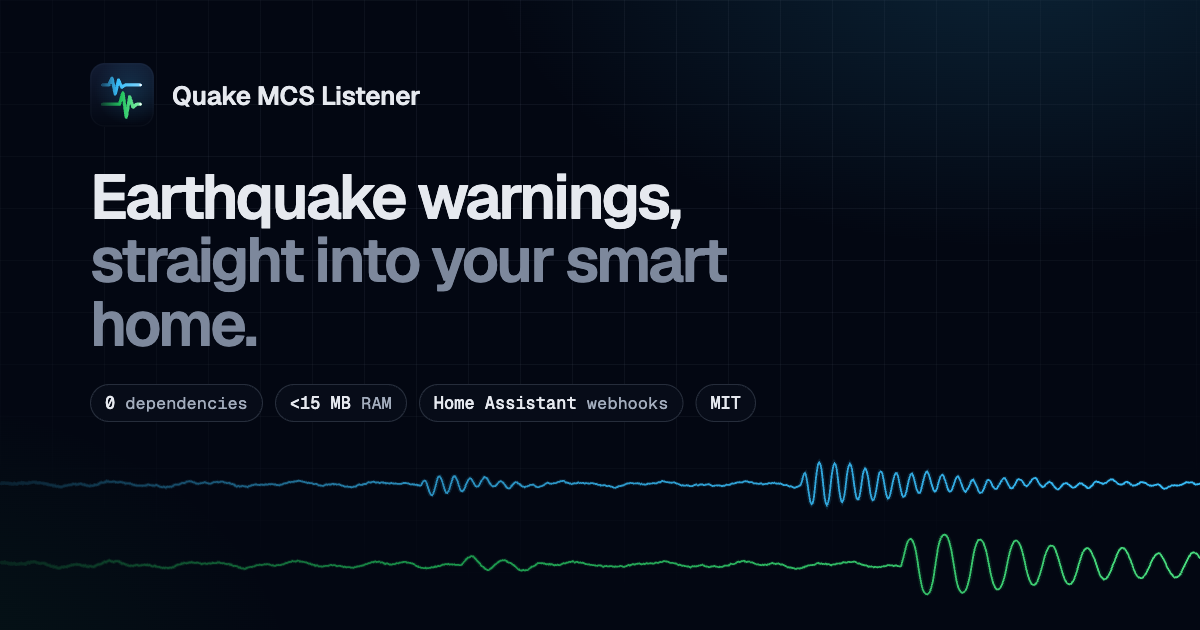
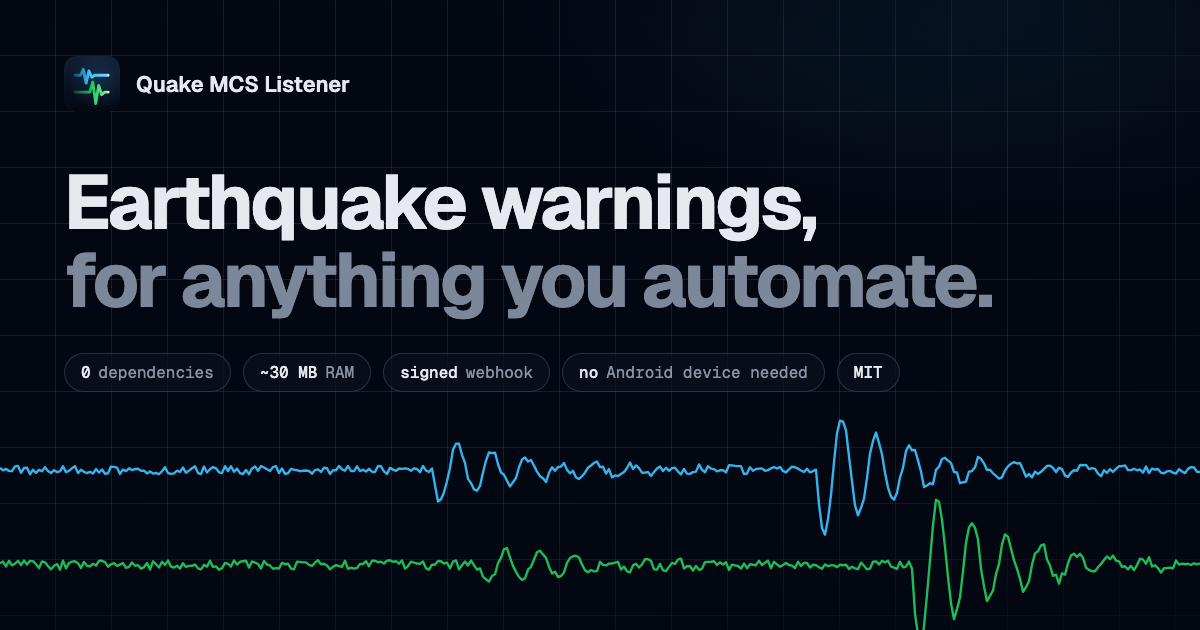
docs: position for any automation, add launch gallery, new og.png
- README and site: "Earthquake warnings, for anything you automate."
  The bridge sends one signed webhook to any URL; Home Assistant configs
  are included but not required. Says plainly that no Android device is
  needed for Google's alerts.
- docs/launch/: four 1270x760 gallery images built from the published
  field results (hero, the 5 real alerts, lead time inside Google's real
  alert polygons for Panama, how it fits), plus build_gallery.py to
  rebuild them and docs/og.png with headless Chrome.
- PRODUCT_HUNT_LAUNCH.md mirrors the draft on Product Hunt.

diff --git a/docs/index.html b/docs/index.html
@@ -3,8 +3,8 @@
 <head>
   <meta charset="UTF-8">
   <meta name="viewport" content="width=device-width, initial-scale=1">
-  <title>Quake MCS Listener — earthquake alerts for Home Assistant</title>
-  <meta name="description" content="A single Python file that follows official earthquake early warnings, EMSC, USGS and SGC feeds and your own seismometer, and tells Home Assistant how hard it will shake at your place. Zero dependencies.">
+  <title>Quake MCS Listener — earthquake alerts for any automation</title>
+  <meta name="description" content="A single Python file that follows official earthquake early warnings, Google's Android alerts (no Android device needed), EMSC, USGS and SGC feeds and your own seismometer, and turns each quake into a webhook for anything you automate, with how hard it will shake at your place. Zero dependencies.">
   <meta name="theme-color" content="#030712">
   <link rel="icon" type="image/svg+xml" href="logo.svg">
   <link rel="icon" type="image/png" sizes="32x32" href="favicon-32.png">
@@ -12,7 +12,7 @@
 
   <meta property="og:type" content="website">
   <meta property="og:title" content="Quake MCS Listener">
-  <meta property="og:description" content="Earthquake warnings with local intensity and an S-wave countdown, straight into Home Assistant. Pure Python, zero dependencies.">
+  <meta property="og:description" content="Earthquake warnings with local intensity and an S-wave countdown, as a webhook for anything you automate. No Android device needed. Pure Python, zero dependencies.">
   <meta property="og:url" content="https://juanipis.github.io/quake-alert-listener/">
   <meta property="og:image" content="https://juanipis.github.io/quake-alert-listener/og.png">
   <meta name="twitter:card" content="summary_large_image">
@@ -674,11 +674,11 @@
     <!-- Hero -->
     <section class="wrap hero">
       <div>
-        <p class="eyebrow"><span class="tag">MIT</span> Early warnings → Home Assistant</p>
-        <h1>Earthquake warnings, <span class="soft">straight into your smart home.</span></h1>
+        <p class="eyebrow"><span class="tag">MIT</span> Early warnings → any webhook</p>
+        <h1>Earthquake warnings, <span class="soft">for anything you automate.</span></h1>
         <p class="lede">
-          One Python file that follows official early warnings, a worldwide quake feed and your own seismometer,
-          then tells <b>Home Assistant</b> how hard it will shake at your place and how many seconds you have. No <span class="mono">pip install</span>, about 30&nbsp;MB of RAM.
+          One Python file that follows official early warnings, Google's Android alerts (no Android device needed), worldwide quake feeds and your own seismometer,
+          then tells <b>your smart home, app or server</b> how hard it will shake at your place and how many seconds you have. Home Assistant configs included. No <span class="mono">pip install</span>, about 30&nbsp;MB of RAM.
         </p>
 
         <div class="install card" id="install">
@@ -883,7 +883,7 @@
           <p class="kicker">02 / How it works</p>
           <h2>Push, not polling.</h2>
         </div>
-        <p>Most smart-home quake integrations ask a public API for news every 30 to 60 seconds. With seismic waves, that's often the whole warning window. This one keeps sockets open to the networks that issue warnings and gets told.</p>
+        <p>Most quake integrations ask a public API for news every 30 to 60 seconds. With seismic waves, that's often the whole warning window. This one keeps sockets open to the networks that issue warnings and gets told.</p>
       </div>
 
       <div class="card race reg" id="race" data-reveal>

diff --git a/docs/launch/build_gallery.py b/docs/launch/build_gallery.py
@@ -1,0 +1,252 @@
+#!/usr/bin/env python3
+"""Build the launch gallery images and the site's og.png.
+
+Every number comes from docs/field-results/2026-10-aeas-earthquakes.json.
+Rendering uses a local Chrome/Chromium in headless mode:
+
+    python3 docs/launch/build_gallery.py [--chrome PATH]
+
+Writes docs/launch/gallery-*.png (1270x760) and docs/og.png (1200x630).
+"""
+import argparse
+import html
+import json
+import math
+import os
+import random
+import shutil
+import subprocess
+import sys
+import tempfile
+
+HERE = os.path.dirname(os.path.abspath(__file__))
+DOCS = os.path.dirname(HERE)
+DATA = os.path.join(DOCS, "field-results", "2026-10-aeas-earthquakes.json")
+LOGO = open(os.path.join(DOCS, "logo.svg"), encoding="utf-8").read()
+LOGO = LOGO[LOGO.index("<svg"):].replace('width="512" height="512"', 'width="100%" height="100%"')
+
+CHROME_CANDIDATES = [
+    "/Applications/Google Chrome.app/Contents/MacOS/Google Chrome",
+    "/Applications/Chromium.app/Contents/MacOS/Chromium",
+    "google-chrome", "chromium", "chromium-browser",
+]
+
+CSS = """
+@import url('https://fonts.googleapis.com/css2?family=Geist:wght@400;500;600;700&family=Geist+Mono:wght@400;500;600&display=swap');
+* { box-sizing: border-box; margin: 0; padding: 0; }
+:root { --bg:#030712; --panel:#0a0f1d; --line:rgba(148,163,184,.14); --line2:rgba(148,163,184,.24);
+        --cyan:#38bdf8; --green:#22c55e; --amber:#eab308; --red:#ef4444; --text:#e6e9ef; --muted:#8a94a6; --dim:#5a6478; }
+html, body { width: __W__px; height: __H__px; overflow: hidden; background: var(--bg); color: var(--text);
+             font-family: Geist, -apple-system, 'Helvetica Neue', sans-serif; }
+body { position: relative;
+       background-image: radial-gradient(ellipse 70% 60% at 85% 0%, rgba(56,189,248,.10), transparent 60%),
+                         linear-gradient(var(--line) 1px, transparent 1px), linear-gradient(90deg, var(--line) 1px, transparent 1px);
+       background-size: auto, 56px 56px, 56px 56px; background-position: 0 0, -1px -1px, -1px -1px; }
+body::after { content:""; position:absolute; inset:0; background: radial-gradient(ellipse 120% 90% at 30% 40%, transparent 40%, var(--bg) 100%); pointer-events:none; }
+.mono { font-family: 'Geist Mono', ui-monospace, Menlo, monospace; }
+.wrap { position: relative; z-index: 1; padding: 56px 64px; height: 100%; }
+.brand { display:flex; align-items:center; gap:16px; font-weight:600; font-size:22px; }
+.brand .logo { width:56px; height:56px; }
+.kicker { font-family:'Geist Mono',monospace; font-size:15px; color:var(--cyan); letter-spacing:.04em; }
+h1 { font-weight:700; letter-spacing:-.035em; line-height:1.02; }
+.soft { color:#7c8799; }
+.chip { display:inline-flex; gap:8px; align-items:center; border:1px solid var(--line2); border-radius:999px; padding:8px 16px;
+        font-family:'Geist Mono',monospace; font-size:16px; color:var(--muted); background:rgba(10,15,29,.7); }
+.chip b { color:var(--text); font-weight:500; }
+.card { background:rgba(10,15,29,.88); border:1px solid var(--line2); border-radius:18px; }
+.ok { color:var(--green); } .warn { color:var(--amber); } .bad { color:var(--red); } .cy { color:var(--cyan); }
+"""
+
+
+def page(w, h, body, extra_css=""):
+    return ("<!doctype html><html><head><meta charset='utf-8'><style>" + CSS.replace("__W__", str(w)).replace("__H__", str(h))
+            + extra_css + "</style></head><body>" + body + "</body></html>")
+
+
+def wave(width, y0, amp, bursts, color, seed, opacity=1.0):
+    """A seismogram-like SVG path: background noise plus decaying bursts at (x_fraction, strength)."""
+    rnd = random.Random(seed)
+    pts = []
+    for x in range(0, width + 1, 3):
+        v = rnd.uniform(-1, 1) * 0.06
+        for bx, s in bursts:
+            d = x - bx * width
+            if d >= 0:
+                v += s * math.exp(-d / (width * 0.07)) * math.sin(d / 5.5)
+        pts.append(f"{x},{y0 + v * amp:.1f}")
+    return (f'<polyline points="{" ".join(pts)}" fill="none" stroke="{color}" stroke-width="2.4" '
+            f'stroke-linejoin="round" opacity="{opacity}"/>')
+
+
+def logo_block(size=56):
+    return f'<div class="brand"><div class="logo" style="width:{size}px;height:{size}px">{LOGO}</div>Quake MCS Listener</div>'
+
+
+def hero(w, h, gallery=True):
+    waves = (f'<svg width="{w}" height="230" style="position:absolute;left:0;bottom:0;z-index:1">'
+             + wave(w, 70, 70, [(0.36, 0.5), (0.68, 1.0)], "#38bdf8", 3, 0.95)
+             + wave(w, 165, 80, [(0.40, 0.25), (0.76, 1.1)], "#22c55e", 7, 0.95) + "</svg>")
+    notif = "" if not gallery else """
+      <div class="card" style="position:absolute;right:64px;top:150px;width:420px;padding:22px 24px;z-index:2;box-shadow:0 20px 60px rgba(0,0,0,.5)">
+        <div class="mono" style="font-size:13px;color:var(--dim);letter-spacing:.06em">WEBHOOK · LEVEL ALERT</div>
+        <div style="font-size:30px;font-weight:700;margin-top:10px">🚨 Shaking in <span class="bad">18 s</span></div>
+        <div class="mono" style="font-size:15px;color:var(--muted);margin-top:10px;line-height:1.6">M6.1 · 96 km away<br>est. intensity at your place: <b style="color:var(--text)">MMI 5.4</b></div>
+        <div style="display:flex;gap:8px;flex-wrap:wrap;margin-top:16px">
+          <span class="chip" style="font-size:13px;padding:5px 11px">→ lights</span><span class="chip" style="font-size:13px;padding:5px 11px">→ siren</span>
+          <span class="chip" style="font-size:13px;padding:5px 11px">→ your server</span></div>
+      </div>"""
+    title_size = 68 if gallery else 76
+    body = f"""
+    <div class="wrap">
+      {logo_block()}
+      <h1 style="font-size:{title_size}px;margin-top:{60 if gallery else 52}px;max-width:{700 if gallery else 1000}px">Earthquake warnings,<br><span class="soft">for anything you automate.</span></h1>
+      <div style="display:flex;gap:12px;margin-top:34px;flex-wrap:wrap;max-width:{720 if gallery else 1100}px">
+        <span class="chip"><b>0</b> dependencies</span><span class="chip"><b>~30 MB</b> RAM</span>
+        <span class="chip"><b>signed</b> webhook</span><span class="chip"><b>no</b> Android device needed</span><span class="chip"><b>MIT</b></span>
+      </div>
+    </div>{notif}{waves}"""
+    return page(w, h, body)
+
+
+def proof(data):
+    rows = []
+    for e in data["events"]:
+        g, u = e["google"], e["usgs"]
+        when = g["origin_utc"][:10]
+        place = {"8e683": "Santander, Colombia", "32f7b": "Mindanao, Philippines", "8fadf": "Southern Panama",
+                 "8fae1": "South of Panama", "8fad9": "Southern Panama"}[e["google_event_id"][:5]]
+        ref = (f'<span class="ok">✓ USGS {u["id"]}</span> <span class="soft">M{u["magnitude"]}</span>' if u
+               else '<span class="warn">? no catalogue match</span>')
+        rows.append(f"""<tr><td class="mono soft">{when}</td><td>{html.escape(place)}</td>
+            <td class="mono">M{g['magnitude']}</td><td class="mono" style="font-size:15px">{ref}</td>
+            <td class="mono cy" style="text-align:right">{e['latency']['received_after_google_issue_s']:.2f} s</td></tr>""")
+    css = """table{width:100%;border-collapse:collapse;font-size:19px} td{padding:13px 10px;border-top:1px solid var(--line)}
+             tr:first-child td{border-top:0} th{font-family:'Geist Mono',monospace;font-size:12px;color:var(--dim);letter-spacing:.08em;
+             text-align:left;font-weight:500;padding:0 10px 10px}"""
+    stat = lambda big, small, cls="": (f'<div class="card" style="padding:20px 24px;flex:1"><div class="{cls}" style="font-size:40px;'
+                                       f'font-weight:700;letter-spacing:-.02em">{big}</div><div class="mono soft" style="font-size:14px;margin-top:6px">{small}</div></div>')
+    body = f"""<div class="wrap">
+      <div class="kicker">FIELD RESULTS · OCTOBER 2026</div>
+      <h1 style="font-size:52px;margin-top:14px">5 real earthquake alerts from Google.<br><span class="soft">No Android device. Just a Raspberry Pi.</span></h1>
+      <div style="display:flex;gap:16px;margin-top:30px">
+        {stat('4 / 5', 'confirmed by USGS', 'ok')}{stat('0.16–0.30 s', 'after Google issued each alert', 'cy')}{stat('up to ~70 s', 'before the S-wave, at the alert edge')}
+      </div>
+      <div class="card" style="margin-top:22px;padding:18px 18px 8px">
+        <table><tr><th>DATE (UTC)</th><th>WHERE</th><th>GOOGLE</th><th>CHECKED AGAINST</th><th style="text-align:right">OUR DELAY</th></tr>{''.join(rows)}</table>
+      </div>
+    </div>"""
+    return page(1270, 760, body, css)
+
+
+def lead_time(data):
+    e = next(x for x in data["events"] if x["google_event_id"].startswith("8fad9"))
+    u, g = e["usgs"], e["google"]
+    lat0, lon0 = u["lat"], u["lon"]
+    kx, ky = math.cos(math.radians(lat0)) * 111.32, 110.57
+    S, cx, cy = 2.75, 330, 350                      # px per km, centre of the plot
+    proj = lambda la, lo: (cx + (lo - lon0) * kx * S, cy - (la - lat0) * ky * S)
+    colors = {"MMI5+": "#ef4444", "MMI4": "#eab308", "MMI3": "#38bdf8"}
+    polys, labels = [], []
+    for c in reversed(g["alert_contours"]):          # outer first
+        pts = " ".join(f"{x:.1f},{y:.1f}" for x, y in (proj(a, b) for a, b in c["vertices"]))
+        col = colors[c["level"]]
+        polys.append(f'<polygon points="{pts}" fill="{col}" fill-opacity=".10" stroke="{col}" stroke-width="2.5"/>')
+        lt = [f["lead_time_s"] for f in c["lead_time_at_edge"]]
+        dk = [f["epicentral_km"] for f in c["lead_time_at_edge"]]
+        if max(lt) <= 0:
+            txt, cls = "no warning · blind zone", "bad"
+        else:
+            txt, cls = f"{min(lt):+.0f} to {max(lt):+.0f} s before shaking", ("warn" if c["level"] == "MMI4" else "cy")
+        labels.append((c["level"], col, f"{dk[0]:.0f}–{dk[1]:.0f} km", txt, cls))
+    ux, uy = proj(lat0, lon0)
+    gx, gy = proj(g["lat"], g["lon"])
+    bar = 50 * S
+    svg = f"""<svg width="660" height="700" style="position:absolute;left:24px;top:40px">
+      {''.join(polys)}
+      <circle cx="{gx:.1f}" cy="{gy:.1f}" r="6" fill="#e6e9ef"/>
+      <path d="M{ux:.1f},{uy-11:.1f} L{ux+3.2:.1f},{uy-3.5:.1f} L{ux+11:.1f},{uy-3.4:.1f} L{ux+4.8:.1f},{uy+1.6:.1f} L{ux+7:.1f},{uy+9.5:.1f} L{ux:.1f},{uy+5:.1f} L{ux-7:.1f},{uy+9.5:.1f} L{ux-4.8:.1f},{uy+1.6:.1f} L{ux-11:.1f},{uy-3.4:.1f} L{ux-3.2:.1f},{uy-3.5:.1f} Z" fill="#22c55e"/>
+      <line x1="40" y1="660" x2="{40+bar:.1f}" y2="660" stroke="#8a94a6" stroke-width="2"/>
+      <text x="40" y="648" fill="#8a94a6" font-family="Geist Mono" font-size="14">50 km</text>
+    </svg>"""
+    legend = "".join(f"""<div style="display:flex;gap:16px;align-items:flex-start;margin-top:22px">
+        <span style="width:16px;height:16px;border-radius:4px;background:{col};margin-top:7px;flex:none"></span>
+        <div><div style="font-size:23px;font-weight:600">{lvl.replace('MMI', 'MMI ')} <span class="mono soft" style="font-size:15px;font-weight:400">{dist}</span></div>
+        <div class="{cls}" style="font-size:20px;margin-top:4px">{txt}</div></div></div>""" for lvl, col, dist, txt, cls in reversed(labels))
+    body = f"""{svg}<div style="position:absolute;left:700px;top:56px;width:520px;z-index:1">
+      <div class="kicker">HOW MUCH WARNING? · REAL ALERT</div>
+      <h1 style="font-size:44px;margin-top:14px">Southern Panama, M{u['magnitude']}<br><span class="soft">31 Oct 2026</span></h1>
+      <div class="mono soft" style="font-size:15px;margin-top:14px;line-height:1.6">Google's alert areas, as received.<br>
+        Alert in hand {e['latency']['received_after_reference_origin_s']:.1f} s after the origin (USGS {u['id']}).</div>
+      {legend}
+      <div class="mono soft" style="font-size:14px;margin-top:28px;line-height:1.6">
+        <span style="color:#e6e9ef">●</span> Google epicentre &nbsp; <span class="ok">★</span> USGS epicentre<br>
+        Like every early-warning system: nothing at the centre,<br>tens of seconds farther out.</div>
+    </div>"""
+    return page(1270, 760, body)
+
+
+def architecture():
+    src = [("Official early warnings", "JMA · CENC via Wolfx", "seconds", "ok"),
+           ("Google Android alerts", "MCS push channel · S2 cells", "seconds", "ok"),
+           ("EMSC · USGS · SGC", "worldwide & national feeds", "minutes", "soft"),
+           ("Your own seismometer", "Raspberry Shake · P-wave trigger", "on site", "ok")]
+    dst = [("Home Assistant", "configs included"), ("Node-RED / n8n", "any webhook flow"),
+           ("Your app or server", "REST API + webhook"), ("Sirens, lights, valves", "whatever you wire up")]
+    box = lambda t, s, right="": (f'<div class="card" style="padding:16px 20px;margin-bottom:14px"><div style="display:flex;justify-content:space-between;'
+                                  f'align-items:baseline"><span style="font-size:21px;font-weight:600">{t}</span>{right}</div>'
+                                  f'<div class="mono soft" style="font-size:14px;margin-top:4px">{s}</div></div>')
+    left = "".join(box(t, s, f'<span class="mono {c}" style="font-size:13px">{sp}</span>') for t, s, sp, c in src)
+    right = "".join(box(t, s) for t, s in dst)
+    arrow = '<div class="cy" style="font-size:44px;align-self:center;padding:0 10px">→</div>'
+    desk = """<div class="card" style="padding:26px 24px;border-color:rgba(56,189,248,.5);box-shadow:0 0 60px rgba(56,189,248,.12);align-self:center;width:330px">
+      <div class="kicker">THE BRIDGE</div><div style="font-size:26px;font-weight:700;margin-top:8px">One Python file</div>
+      <ul class="mono" style="list-style:none;font-size:14px;color:var(--muted);margin-top:16px;line-height:2">
+        <li><span class="cy">›</span> intensity at your place (MMI)</li><li><span class="cy">›</span> S-wave countdown</li>
+        <li><span class="cy">›</span> one event per quake</li><li><span class="cy">›</span> drops test & crisis alerts</li>
+        <li><span class="cy">›</span> HMAC-signed webhook</li></ul></div>"""
+    body = f"""<div class="wrap">
+      <div class="kicker">HOW IT FITS</div>
+      <h1 style="font-size:48px;margin-top:14px">Every source in, <span class="soft">one webhook out.</span></h1>
+      <div style="display:flex;gap:6px;margin-top:40px;align-items:stretch">
+        <div style="width:365px">{left}</div>{arrow}{desk}{arrow}<div style="width:290px">{right}</div>
+      </div>
+      <div style="display:flex;gap:12px;margin-top:34px;flex-wrap:wrap">
+        <span class="chip"><b>no</b> Android device needed</span><span class="chip"><b>0</b> dependencies · Python 3.8+</span>
+        <span class="chip"><b>~30 MB</b> RAM · runs on a Raspberry Pi</span><span class="chip"><b>MIT</b></span>
+      </div>
+    </div>"""
+    return page(1270, 760, body)
+
+
+def find_chrome(explicit):
+    for c in ([explicit] if explicit else []) + CHROME_CANDIDATES:
+        if c and (os.path.isfile(c) or shutil.which(c)):
+            return c if os.path.isfile(c) else shutil.which(c)
+    sys.exit("Chrome/Chromium not found; pass --chrome PATH")
+
+
+def render(chrome, html_text, out, w, h, tmp):
+    src = os.path.join(tmp, os.path.basename(out) + ".html")
+    open(src, "w", encoding="utf-8").write(html_text)
+    subprocess.run([chrome, "--headless=new", "--disable-gpu", "--hide-scrollbars", "--force-device-scale-factor=1",
+                    f"--window-size={w},{h}", "--virtual-time-budget=6000", f"--screenshot={out}", "file://" + src],
+                   check=True, stdout=subprocess.DEVNULL, stderr=subprocess.DEVNULL)
+    print("wrote", os.path.relpath(out, os.path.dirname(DOCS)))
+
+
+def main():
+    ap = argparse.ArgumentParser()
+    ap.add_argument("--chrome")
+    a = ap.parse_args()
+    chrome = find_chrome(a.chrome)
+    data = json.load(open(DATA, encoding="utf-8"))
+    with tempfile.TemporaryDirectory() as tmp:
+        render(chrome, hero(1270, 760), os.path.join(HERE, "gallery-1-hero.png"), 1270, 760, tmp)
+        render(chrome, proof(data), os.path.join(HERE, "gallery-2-field-results.png"), 1270, 760, tmp)
+        render(chrome, lead_time(data), os.path.join(HERE, "gallery-3-lead-time-panama.png"), 1270, 760, tmp)
+        render(chrome, architecture(), os.path.join(HERE, "gallery-4-how-it-fits.png"), 1270, 760, tmp)
+        render(chrome, hero(1200, 630, gallery=False), os.path.join(DOCS, "og.png"), 1200, 630, tmp)
+
+
+if __name__ == "__main__":
+    main()

diff --git a/PRODUCT_HUNT_LAUNCH.md b/PRODUCT_HUNT_LAUNCH.md
@@ -23,7 +23,7 @@ Everything needed to launch **Quake MCS Listener** on [Product Hunt](https://www
 
 ## 📝 Description (max 500 chars)
 
-> Open-source bridge that turns earthquake alerts into a webhook for anything you run: smart homes, apps, servers, sirens. It tells you how hard it will shake where you are and how many seconds you have. Official EEW, USGS, EMSC, your own sensor and Google's Android alerts.
+> Open-source bridge that turns earthquake alerts into a webhook for anything you run: smart homes, apps, servers, sirens. It tells you how hard it will shake where you are and how many seconds you have. Official EEW, USGS, EMSC, your own sensor and Google's Android alerts (no Android device needed).
 
 ### The problem
 Most quake integrations (smart-home or otherwise) show a magnitude and a distance, minutes after the fact. To automate something useful you need to know *whether it will shake here, how hard, and how long you have*. Early warnings exist in only a few countries. Google's Android Earthquake Alerts cover far more of the world, but only reach Android phones and have no public API.
@@ -61,7 +61,7 @@ I live in Colombia, where earthquake alerts reach some phones and almost nothing
 What it does:
 - Follows official early warnings (Japan's JMA and China's CENC via Wolfx), the EMSC, USGS and Colombian SGC feeds, your own Raspberry Shake, and Google's Android Earthquake Alerts over Google's push channel.
 - Estimates the intensity at your location and counts down to the S-wave, then sends one signed webhook per quake. Home Assistant configs are included, but anything that accepts a webhook or reads a REST API works.
-- One Python file, zero dependencies, about 30 MB of RAM.
+- One Python file, zero dependencies, about 30 MB of RAM. No Android device needed: it runs on a Raspberry Pi, a server or your laptop.
 
 The part I'm proudest of: we reverse-engineered how Android subscribes to Google's alerts (S2 map cells over the MCS push socket). In October 2026 a Raspberry Pi with no phone attached received 5 real earthquake alerts from Google. USGS confirms 4 of them, and they arrived 0.2 s after Google issued them. Places at the edge of the alert area got ~20 to ~70 s before the strong shaking. Everything is published, including where it gave NO warning: https://github.com/Juanipis/quake-alert-listener/blob/main/docs/FIELD_RESULTS.md
 
@@ -77,14 +77,15 @@ If you live in a seismic zone and automate anything, I'd love you to try it and 
 
 ## 🖼 Gallery (1270×760)
 
-| # | Image | Status |
+| # | Image | File |
 | :--- | :--- | :--- |
-| 1 | Hero: logo, tagline and the countdown notification ("🚨 Shaking in 18 s") | `docs/og.png` is in the draft now, but it says "straight into your smart home": redo it with the broader positioning, at 1270×760 |
-| 2 | **Proof:** map of the 5 alerts with their USGS IDs, and the "0.2 s after Google" figure | To make, from `docs/field-results/2026-10-aeas-earthquakes.json` |
-| 3 | **Lead time:** alert polygons for Panama on 31 Oct with the blind zone and the +14/+20 s edge | To make, from the same JSON |
-| 4 | Web console (`docs/index.html`) receiving events | Screenshot |
-| 5 | Home Assistant: dashboard card + iPhone notification | Screenshot from the HA config in `homeassistant/` |
-| 6 | Architecture: sources → DetectionDesk → webhook → Home Assistant | To make (simple diagram) |
+| 1 | Hero: "Earthquake warnings, for anything you automate." + webhook card ("🚨 Shaking in 18 s") | `docs/launch/gallery-1-hero.png` |
+| 2 | Proof: the 5 real alerts, USGS IDs, 0.16–0.30 s delay | `docs/launch/gallery-2-field-results.png` |
+| 3 | Lead time: Google's real alert polygons for Panama, 31 Oct (blind zone, +1/+7 s, +14/+20 s) | `docs/launch/gallery-3-lead-time-panama.png` |
+| 4 | How it fits: every source in, one webhook out | `docs/launch/gallery-4-how-it-fits.png` |
+| 5 | Home Assistant dashboard card + phone notification | To take from a real install |
+
+All four are 1270×760 and generated from the published data by `python3 docs/launch/build_gallery.py` (needs a local Chrome). The same script redraws `docs/og.png`.
 
 Optional: a 30–60 s video or GIF of a drill (`curl -X POST http://127.0.0.1:8990/drill`) reaching Home Assistant and turning the lights on.
 
@@ -109,7 +110,8 @@ Optional: a 30–60 s video or GIF of a drill (`curl -X POST http://127.0.0.1:89
 ## ✅ Launch checklist
 
 - [x] Draft created on Product Hunt (2026-11-01): name, tagline, description, GitHub link, Free, 3 launch tags, maker role, first comment. Not scheduled.
-- [ ] Gallery images 2, 3 and 6 made; image 1 redone at 1270×760 with the broader positioning; screenshots 4 and 5 taken.
+- [x] Gallery images 1–4 made (`docs/launch/`), `docs/og.png` redone; README and site say "for anything you automate" and "no Android device needed".
+- [ ] Upload images 1–4 to the draft (replacing the old og.png) and, ideally, a real Home Assistant screenshot.
 - [ ] Clean-machine smoke test: `git clone` → `run.sh` → the web console finds the bridge → `python3 quake_listener.py --simulate` decodes → `curl -X POST http://127.0.0.1:8990/drill` reaches a test webhook.
 - [ ] GitHub repo description updated to match the positioning (it still describes only the Android AEAS client).
 - [ ] Repo topics: add `earthquake-early-warning`, `home-automation`, `open-source`.

diff --git a/README.md b/README.md
@@ -2,8 +2,10 @@
 
 # 🌐 Quake MCS Listener
 
-> **Earthquake warnings, straight into your smart home.**
-> One dependency-free Python file that follows official early warnings, worldwide and national quake feeds, and your own seismometer, then tells Home Assistant how hard it will shake at your place and how many seconds you have.
+> **Earthquake warnings, for anything you automate.**
+> One dependency-free Python file that follows official early warnings, Google's Android alerts (no Android device needed), worldwide and national quake feeds, and your own seismometer, then tells your smart home, app or server how hard it will shake at your place and how many seconds you have. One signed webhook per quake; Home Assistant configs included.
+
+<p align="center"><img src="docs/launch/gallery-4-how-it-fits.png" width="760" alt="Every source in, one webhook out: official early warnings, Google Android alerts, EMSC/USGS/SGC and your own seismometer feed one Python bridge that sends a signed webhook to Home Assistant, Node-RED, your app or server, or sirens and lights"></p>
 
 [![Python 3.8+](https://img.shields.io/badge/python-3.8+-blue.svg)](https://www.python.org/downloads/)
 [![Dependencies: 0](https://img.shields.io/badge/dependencies-0-brightgreen.svg)](#)
